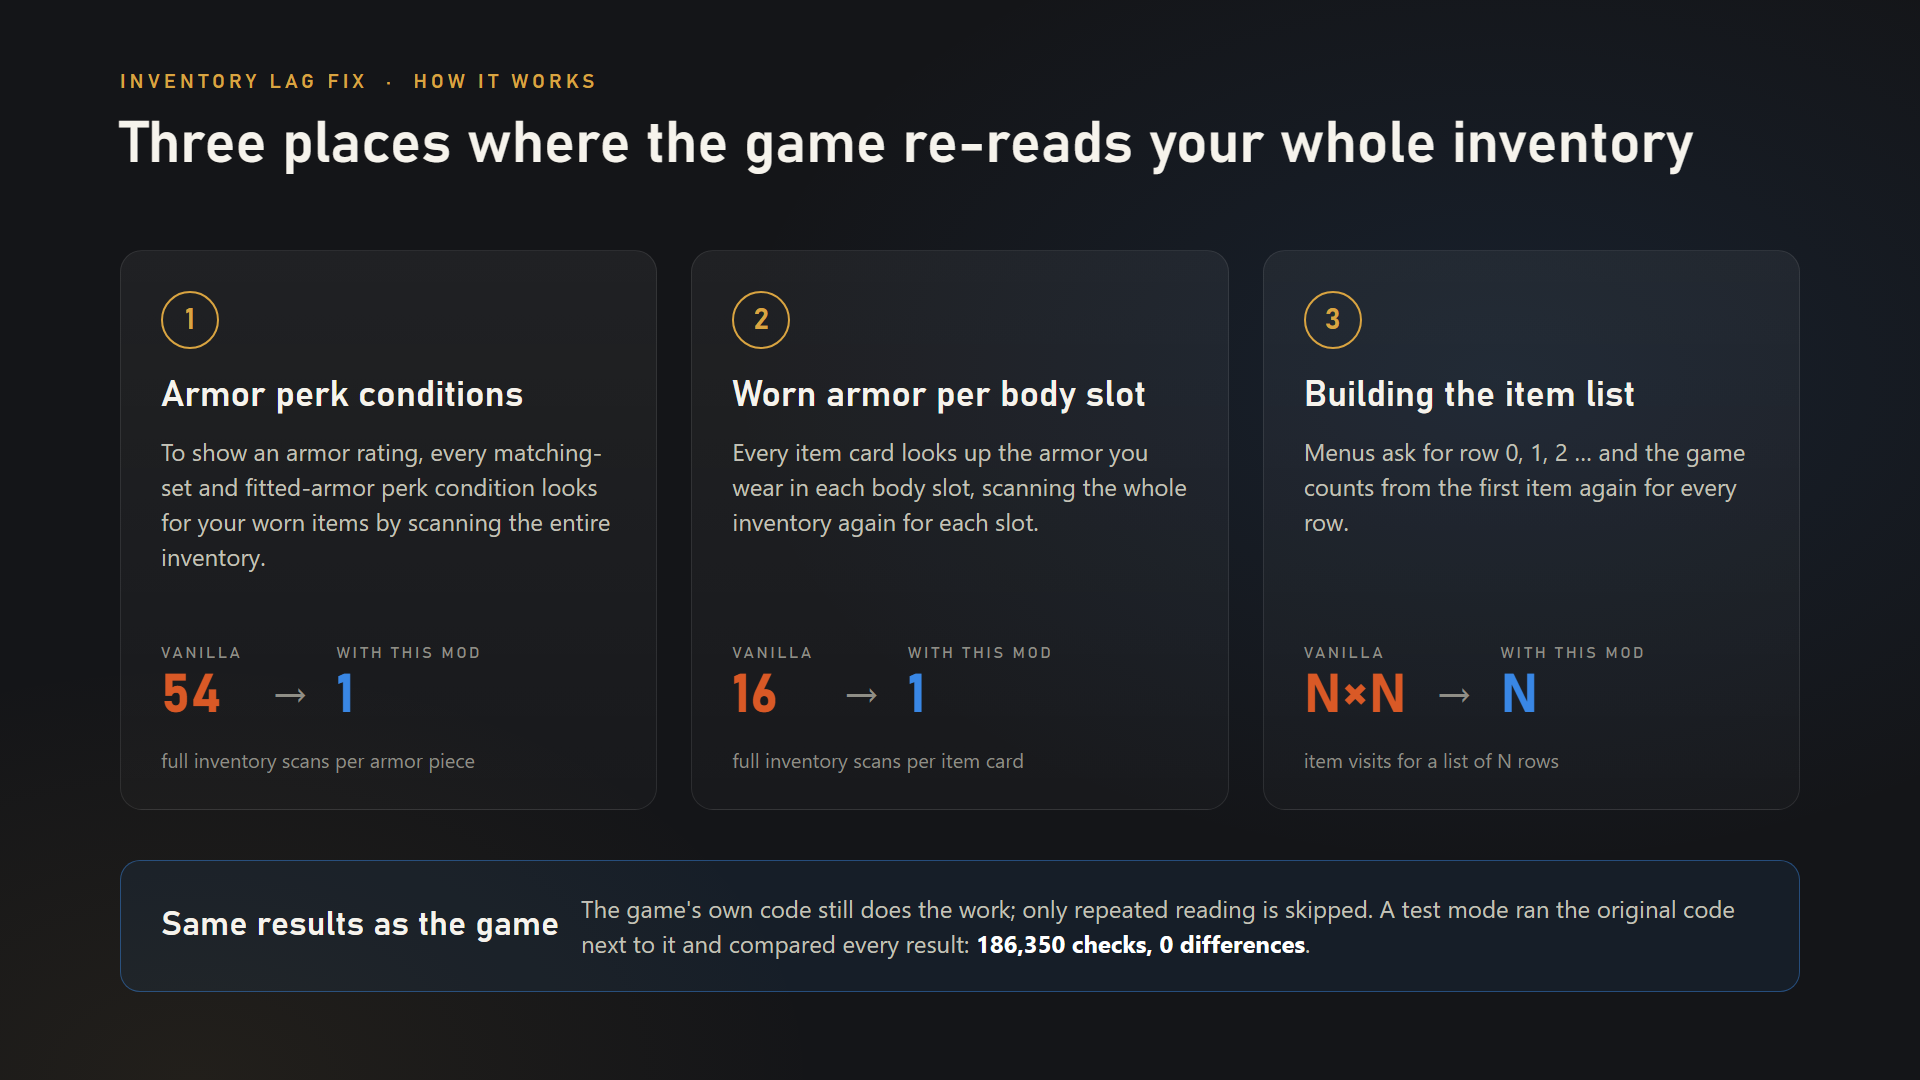
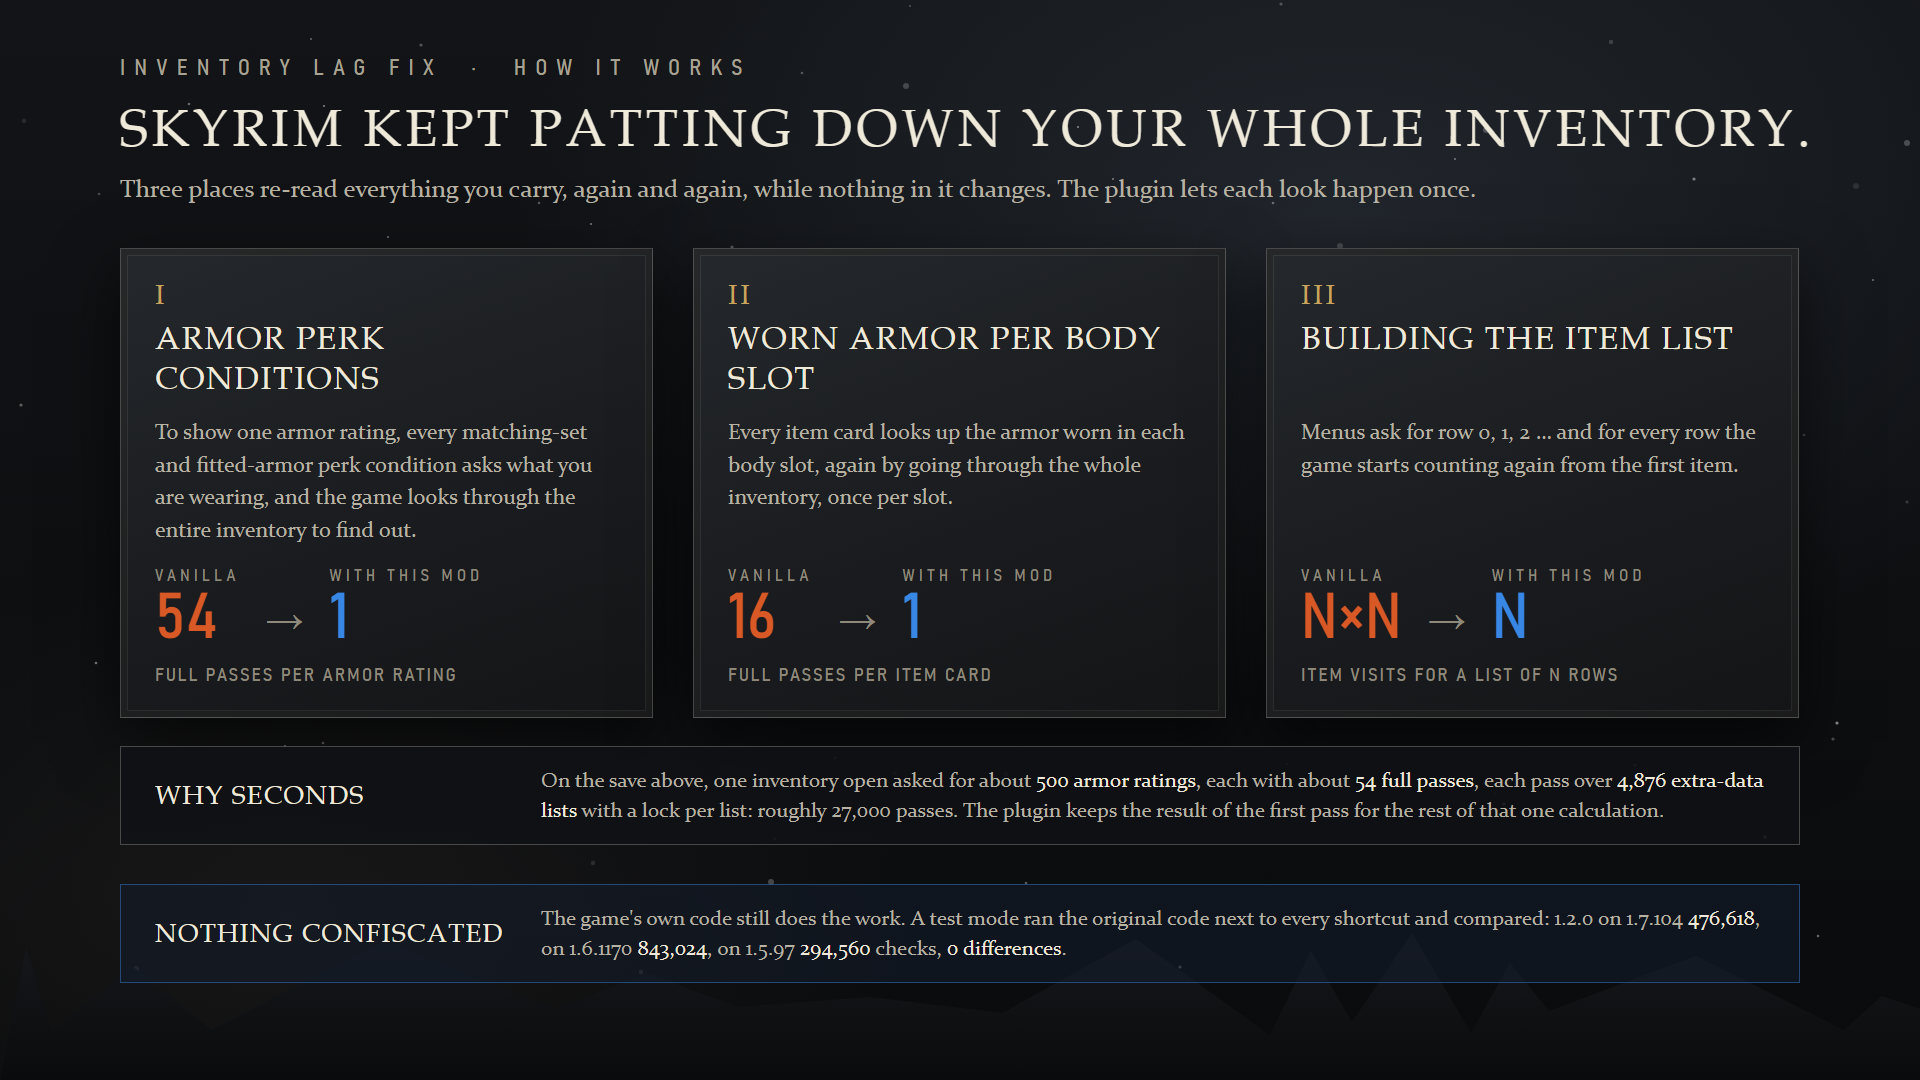
Redraw README images in a Skyrim style and add a comic
The charts keep all measured numbers. The scaling chart now also shows the
extra-data list count at each step, the results chart adds the 1.5.97 and
crafting-menu results, and the how-it-works image explains why the freeze
reaches seconds and lists the 1.2.0 verify counts.

diff --git a/README.md b/README.md
@@ -4,7 +4,7 @@
 <a href="LICENSE"><img src="https://img.shields.io/github/license/quoteproxy/InventoryLagFix" alt="MIT license"></a>
 <a href="https://buymeacoffee.com/quoteproxy"><img src="https://img.shields.io/badge/Buy_me_a_coffee-FFDD00?logo=buymeacoffee&logoColor=000" alt="Support on Buy Me a Coffee"></a>
 
-![Inventory Lag Fix: opening the inventory with 1,159 items freezes the game for 4.2 s in vanilla and 0.27 s with this plugin](docs/images/hero.png)
+![Inventory Lag Fix: the hoard stays, the freeze goes. Time frozen while the inventory opens on one real save (1,159 different items, 193 of them armor, matching-set armor perks, Skyrim 1.7.104 with SkyUI): 4.2 s in vanilla, 0.27 s with this plugin](docs/images/hero.png)
 
 An SKSE plugin for Skyrim Special Edition / Anniversary Edition (1.5.97, 1.6.x and 1.7.x). If you carry
 a lot of items, opening the inventory freezes the game for seconds, and the freeze grows quickly with
@@ -14,12 +14,14 @@ the inventory, and crafting menus with very large recipe lists.
 
 No ESP, no scripts, nothing is written to your save. You can add or remove it at any time.
 
+![Comic: a Nord with an overfull sack. In vanilla the inventory freezes for 4.2 s while his housecarl waits; with this plugin it opens with a 0.27 s freeze and the bucket he kept "just in case" is finally needed](docs/images/comic.png)
+
 ## Results
 
 Measured on a real save with 1,159 items (4,876 extra-data lists), Skyrim 1.7.104 with SkyUI.
 "Frozen" is the time the game spends in frames longer than 0.1 s.
 
-![Bar chart of the time the game is frozen, vanilla vs. with this plugin, for opening the inventory, equipping, unequipping and opening the favorites menu](docs/images/menus.png)
+![Bar chart of the time the game is frozen, vanilla vs. with this plugin, for opening the inventory, equipping, unequipping and opening the favorites menu, with the 1.5.97 and crafting-menu results below](docs/images/menus.png)
 
 | | Vanilla | With Inventory Lag Fix |
 |---|---|---|
@@ -31,7 +33,7 @@ Measured on a real save with 1,159 items (4,876 extra-data lists), Skyrim 1.7.10
 
 The same save trimmed to fewer items (time frozen while the inventory opens, average of 2 opens):
 
-![Line chart: the vanilla freeze climbs from 0 s at 110 items to 4.2 s at 1,159 items, while with this plugin it stays at 0 s up to 802 items and reaches 0.27 s at 1,159 items](docs/images/scaling.png)
+![Line chart: the vanilla freeze climbs from 0 s at 110 items to 4.2 s at 1,159 items (4,876 extra-data lists), while with this plugin it stays at 0 s up to 802 items and reaches 0.27 s at 1,159 items](docs/images/scaling.png)
 
 | Items | 44 | 110 | 256 | 405 | 605 | 802 | 1,002 | 1,159 |
 |---|---|---|---|---|---|---|---|---|
@@ -71,7 +73,7 @@ large recipe lists (many armor mods). Weapon recipes and the cooking pot hardly 
 
 ## Cause
 
-![The three places where the game re-reads the whole inventory: armor perk conditions (54 full scans per armor piece, 1 with this plugin), worn armor per body slot (16 scans per item card, 1 with this plugin) and building the item list (N x N item visits, N with this plugin)](docs/images/how.png)
+![The three places where the game re-reads the whole inventory: armor perk conditions (54 full passes per armor rating, 1 with this plugin), worn armor per body slot (16 per item card, 1 with this plugin) and building the item list (N x N item visits, N with this plugin). About 500 armor ratings x 54 passes over 4,876 extra-data lists per inventory open; the verify mode found 0 differences](docs/images/how.png)
 
 This was found by profiling and reverse engineering `SkyrimSE.exe` 1.7.104. Three places in the game read
 the whole inventory again and again, taking a lock for every extra-data list:
